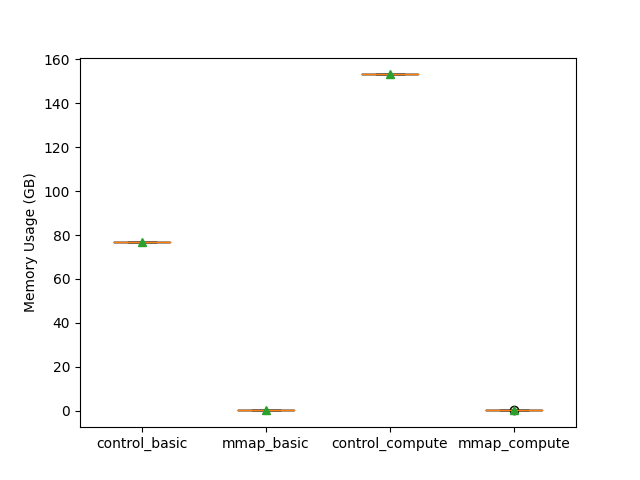
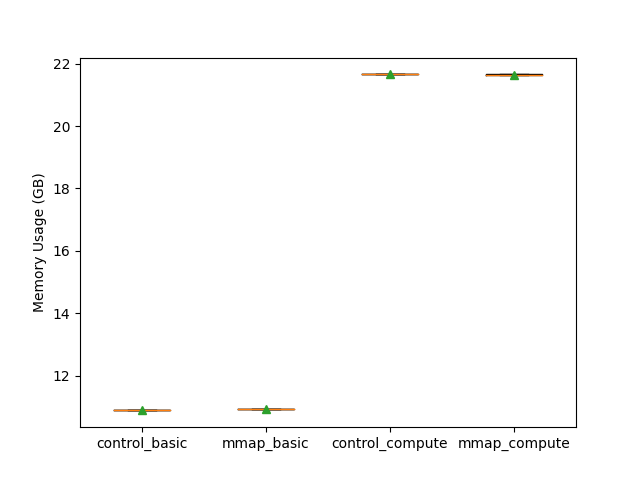
reading into single buffer: bad for mmap
$ python3 colbert/tests/mmap_test.py --target_dir=./experiments/mmap_test --test_iter=1

Starting MMap stress test

Starting random file read control test from /lfs/1/udingank/msmarco.nbits-2.latest
Starting iteration 0
copying cycle 0

Starting random file read mmap test from /lfs/1/udingank/msmarco.nbits-2.latest
Starting iteration 0
copying cycle 0

Saving Results
--------------
Results saved to ./experiments/mmap_test/results-hdd.png

control_basic: 10.89 GB
mmap_basic: 10.94 GB
control_compute: 21.65 GB
mmap_compute: 21.65 GB

Timing Summary
--------------

Timing   |  Control  |  MMap
-----------|-----------|--------------
read time | 38.29114  |  34.34510
copy time | 0.76616  |  0.71476
compute  | 0.00011  |  0.01202
total   | 14.46246  |  14.28614

Starting random file read control test from /lfs/0/udingank/msmarco.nbits-2.latest
Starting iteration 0
copying cycle 0

Starting random file read mmap test from /lfs/0/udingank/msmarco.nbits-2.latest
Starting iteration 0
copying cycle 0

Saving Results
--------------
Results saved to ./experiments/mmap_test/results-ssd.png

control_basic: 10.89 GB
mmap_basic: 10.95 GB
control_compute: 21.65 GB
mmap_compute: 21.65 GB

Timing Summary
--------------

Timing   |  Control  |  MMap
-----------|-----------|--------------
read time | 38.29114  |  34.34510
copy time | 0.76616  |  0.71476
compute  | 0.00011  |  0.01202
total   | 14.46246  |  14.28614

Finished MMap stress test

diff --git a/colbert/tests/mmap_test.py b/colbert/tests/mmap_test.py
@@ -19,16 +19,17 @@ Results = ['results-hdd.png', 'results-ssd.png']
 #TestFile = os.path.join('./colbert/tests', 'mmap_test_data.pt')
 #TEST_FILE_SIZE = 1209306560
 
-verbose = False
+verbose = True
 
-TEST_FILE_SIZE = 9566559787
 TEST_CHUNK_SIZE = 100000
 BYTE_SIZE = 1
 
 NUM_COMPUTE_CYCLES = 10
 
-NUM_RES_FILES = 354
-TensorSizes = [0]*NUM_RES_FILES
+NUM_RES_FILES = 50
+#NUM_RES_FILES = 354
+TensorSizes = [51166240, 51453472, 50933984, 52260032, 54481664, 54507104, 53236320, 53662720, 53944384, 54002784, 53552256, 53667328, 54137248, 54020352, 54441184, 53984192, 53614432, 54481120, 54064096, 54103616, 54155040, 54032160, 53146528, 53839648, 53485664, 54296672, 53755040, 54010784, 54191008, 53782240, 54119968, 53886496, 54510016, 54021184, 53680544, 54164352, 54120192, 54463776, 54394944, 53432672, 54699488, 53804480, 54014720, 53671136, 54194016, 53839008, 54290848, 54043008, 53700608, 53871520, 53178624, 53900512, 54015904, 54518592, 54416992, 54581504, 54298848, 54158368, 54041568, 54378688, 53839232, 54287264, 54091488, 53730464, 53566848, 54063168, 53944000, 54137632, 53897248, 53624928, 54485760, 54331104, 54647968, 54599968, 54546112, 53670656, 53914016, 54217856, 54305568, 54257984, 55005792, 53951104, 54497792, 54992992, 53889312, 53944960, 54473152, 54046304, 54046592, 53580608, 53617120, 53198688, 52915296, 53923072, 53460608, 53548960, 53694048, 52599968, 53268992, 53557248, 53561184, 53765344, 53556928, 54078720, 53031232, 52926656, 53063488, 53754752, 53772832, 53557376, 53072832, 53428576, 53395040, 53273056, 54276864, 54657504, 54099744, 54236448, 53307712, 54159072, 53775136, 53634304, 54093600, 53819488, 53801952, 53867648, 53353184, 54316416, 53560160, 54134944, 54071040, 53986240, 53095328, 54027392, 53961152, 54152192, 54478080, 53665952, 54025856, 54155104, 53544480, 54216288, 53941088, 54007232, 54223584, 54205568, 54400512, 54376128, 53829888, 53570272, 54360640, 54483200, 54144544, 54127840, 54259968, 54754080, 54135424, 54396256, 54146272, 54016480, 53712160, 54274944, 53699328, 54432928, 53947104, 54777440, 54762560, 54062240, 53732000, 54165472, 53983008, 54270240, 53841184, 54049632, 54479584, 54213408, 54072352, 54254080, 54023808, 53854048, 54086080, 53979232, 54049760, 54452224, 54038432, 54250400, 54175200, 53975360, 53975040, 54322240, 54386976, 54497344, 54133696, 54680224, 54133280, 54353952, 53630944, 54746432, 54309952, 54326304, 53676640, 53812832, 54615200, 54287328, 54299040, 54149728, 54295104, 54523104, 54241568, 54858880, 54318496, 54335744, 54264544, 54396960, 53915104, 54295488, 54525600, 53891296, 56159488, 55877920, 56103040, 55800384, 56200736, 56150944, 56126624, 56212480, 55750496, 56334304, 56007040, 55243040, 56307488, 56544448, 56301600, 56649344, 56383232, 55934720, 56568160, 55167168, 55105696, 55868096, 56705792, 56838944, 56551680, 55503584, 55104064, 55028000, 68795968, 68374464, 69128096, 69118464, 69394560, 69144544, 65822272, 55919712, 55927488, 55884064, 56379936, 56346112, 56495008, 56287936, 56274688, 56749184, 55768384, 55717088, 56645696, 56226848, 55737824, 54995168, 55074272, 54782976, 54654656, 54770304, 55382976, 54883168, 54950880, 54718720, 54119136, 54758240, 54616160, 54621824, 54731488, 54192096, 54766080, 48401120, 49150912, 49069664, 49203360, 49278720, 49314432, 49361312, 48923936, 49091264, 54095776, 54359104, 55029088, 54100160, 53178976, 52473120, 52235616, 52540064, 52655776, 52533696, 52408640, 52615104, 52067776, 52357344, 52091520, 52763392, 52244512, 51152224, 51657984, 51895904, 52145440, 51986272, 51948480, 52014336, 51195552, 51687200, 51962720, 53245056, 52912096, 48251168, 49227872, 49226176, 48693184, 49111040, 49186496, 49182912, 47979776, 51783904, 54250272, 54625472, 55362592, 53950944, 52790720, 53113216, 52760768, 52939264, 52933216, 52595296, 52696064, 52492320, 52494240, 52527264, 52841952, 52392256, 51322752, 51423200, 51795936, 51569760, 51588672, 52201760, 51910304, 34766720]
+TEST_FILE_SIZE = sum(TensorSizes)
 
 B_PER_GB = 1e9
 
@@ -45,6 +46,7 @@ def read_residuals(mmap, filepath, proc, q):
 
     for i in range(NUM_RES_FILES):
         filename = os.path.join(filepath, "{}.residuals.pt".format(i))
+
         if (i % 10 == 0):
             print("reading file {}".format(filename))
 
@@ -55,24 +57,18 @@ def read_residuals(mmap, filepath, proc, q):
             mem_buf = torch.cat([mem_buf, torch.ByteTensor(storage)])
         else:
             temp = torch.load(filename, map_location='cpu')
-            TensorSizes[i] = temp.nelement()
             mem_buf = torch.cat([mem_buf, temp])
 
             del temp
             gc.collect()
-
-    print("mem_buf size = {}".format(mem_buf.nelement()))
 
     mem = proc.memory_info().rss/B_PER_GB
     q.put(mem)
 
     return mem_buf
 
-def read_into_buffer(mmap, read_buf_size, filepath, q):
+def read_into_buffer(mmap, filepath, q):
     proc = psutil.Process(os.getpid())
-
-    if verbose:
-        print("Starting worker process {}".format(os.getpid()))
 
     # read time, average copy time, average calculation time, total time
     timing = { 'read_time': 0, 'average_copy_time': 0, 'average_calc_time': 0, 'total_time': 0 }
@@ -82,14 +78,6 @@ def read_into_buffer(mmap, read_buf_size, filepath, q):
     mem_buf = read_residuals(mmap, filepath, proc, q)
 
     fetch_time = time.time()
-    timing['read_time'] = fetch_time - start_time
-    if verbose:
-        print("it took {}s to read from disk".format(timing['read_time']))
-
-    if mmap:
-        results_buf = mmap_compute
-    else:
-        results_buf = control_compute
 
     copy_avg = 0
     calc_avg = 0
@@ -102,35 +90,37 @@ def read_into_buffer(mmap, read_buf_size, filepath, q):
         rand_time_start = time.time()
         start = random.randrange(0, TEST_FILE_SIZE)
         end = max(start + TEST_CHUNK_SIZE, TEST_FILE_SIZE)
-        new_buf = copy.deepcopy(mem_buf[start:end])
-        ts1 = time.time()
 
+        temp = mem_buf[start:end]
+        new_buf = copy.deepcopy(temp)
+        del temp
+        gc.collect()
+
+        ts1 = time.time()
         computation = torch.sum(new_buf)
         ts2 = time.time()
 
         copy_avg += ts1 - rand_time_start
         calc_avg += ts2 - ts1
 
-        mem = proc.memory_info().rss
+        mem = proc.memory_info().rss/B_PER_GB
+        results_buf.append(mem)
+
         del new_buf
         gc.collect()
 
-        results_buf.append(mem/B_PER_GB)
+    end_time = time.time()
 
     copy_avg = copy_avg/NUM_COMPUTE_CYCLES
     calc_avg = calc_avg/NUM_COMPUTE_CYCLES
-    if verbose:
-        print("copy average time = {}, calculation average time = {}".format(copy_avg, calc_avg))
-    timing['average_copy_time'] = copy_avg
-    timing['average_calc_time'] = calc_avg
 
     del mem_buf
     gc.collect()
 
-    end_time = time.time()
+    timing['read_time'] = fetch_time - start_time
+    timing['average_copy_time'] = copy_avg
+    timing['average_calc_time'] = calc_avg
     timing['total_time'] = end_time - fetch_time
-    if verbose:
-        print("fetch to end time = {}".format(timing['total_time']))
 
     q.put(results_buf)
     q.put(timing)
@@ -143,32 +133,20 @@ def read_into_buffer(mmap, read_buf_size, filepath, q):
 #                   else, save to disk and load entire files into memory
 #   test_data -     contents of file to write
 #   test_iter -     how many test cycles to run
-#   read_buf_size - how much data to read into memory
 #
 #   results -       list of length test_iter with memory usage
-#
-# This test writes a file to disk, and then spawns a worker process
-# to fill up a buffer in memory test_iter times. The size of the
-# in-memory buffer is given by read_buf_size.
-#
-# The parent process will monitor the memory usage of the worker
-# process for each test iteration and report back the results to
-# the caller for analysis.
-def run_test(mmap, test_iter, read_buf_size, filepath):
-
+def run_test(mmap, test_iter, filepath):
     for i in range(test_iter):
         print("Starting iteration {}".format(i))
 
         q = Queue()
 
         start_time = time.time()
-        worker_proc = Process(target=read_into_buffer, args=(mmap, read_buf_size, filepath, q))
+        worker_proc = Process(target=read_into_buffer, args=(mmap, filepath, q))
         worker_proc.start()
 
         worker_proc.join()
         end_time = time.time()
-
-        print("exec time = {}".format(end_time - start_time))
 
         if mmap:
             mmap_basic.append(q.get())
@@ -242,7 +220,6 @@ def main(args):
     target_dir = args.target_dir
 
     test_iter = args.test_iter
-    read_buf_size = args.read_buf_size
 
     ### Start the test
     print("\nStarting MMap stress test")
@@ -250,10 +227,10 @@ def main(args):
     ### Read random parts of the test data file with and without MMap
     for i, filepath in enumerate(Sources):
         print("\nStarting random file read control test from {}".format(filepath))
-        run_test(False, test_iter, read_buf_size, filepath)
+        run_test(False, test_iter, filepath)
 
         print("\nStarting random file read mmap test from {}".format(filepath))
-        run_test(True, test_iter, read_buf_size, filepath)
+        run_test(True, test_iter, filepath)
 
         ### Results
         print_results(target_dir, Results[i])
@@ -283,10 +260,6 @@ if __name__ == "__main__":
     # optional arguments
     parser.add_argument(
         "--test_iter", type=int, required=False, default=1, help="Number of test cycles"
-    )
-    parser.add_argument(
-        "--read_buf_size", type=int, required=False, default=TEST_FILE_SIZE,\
-        help="Number of copies of the test data to read into memory"
     )
 
     args = parser.parse_args()
